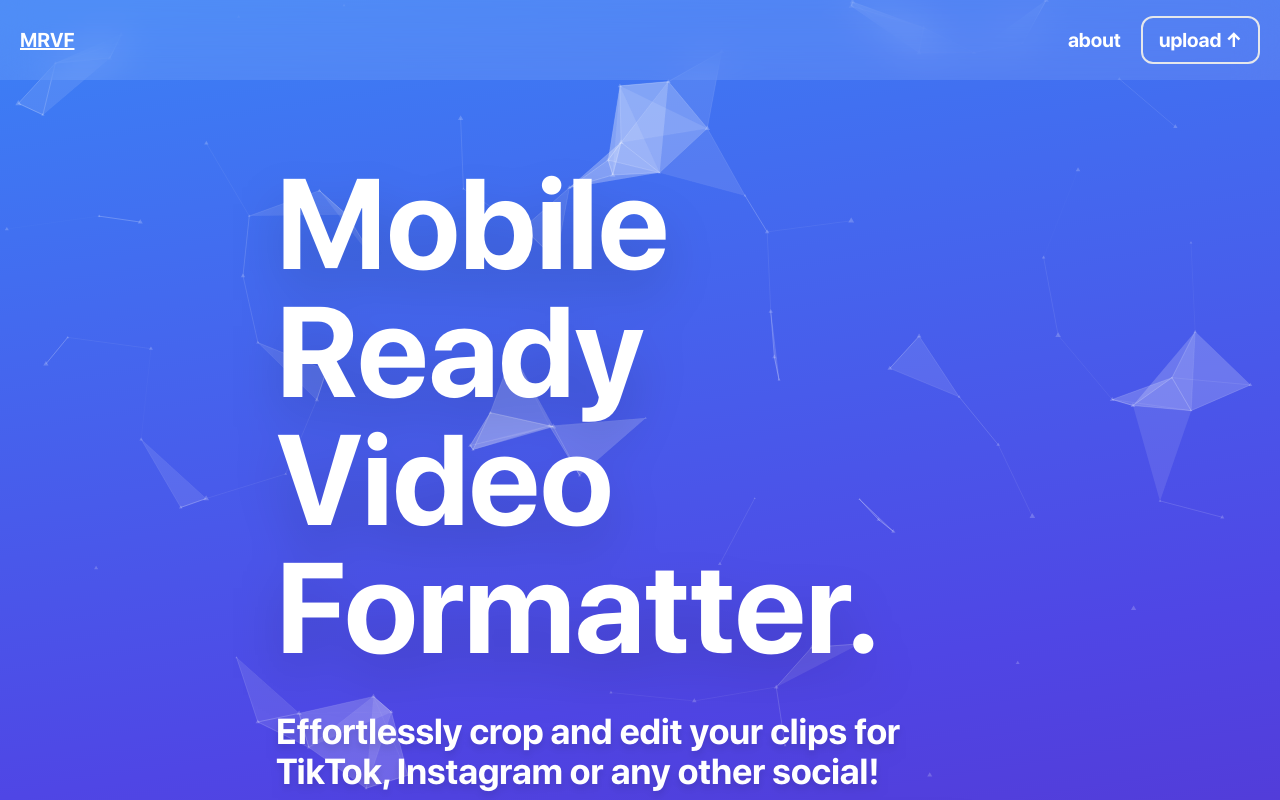
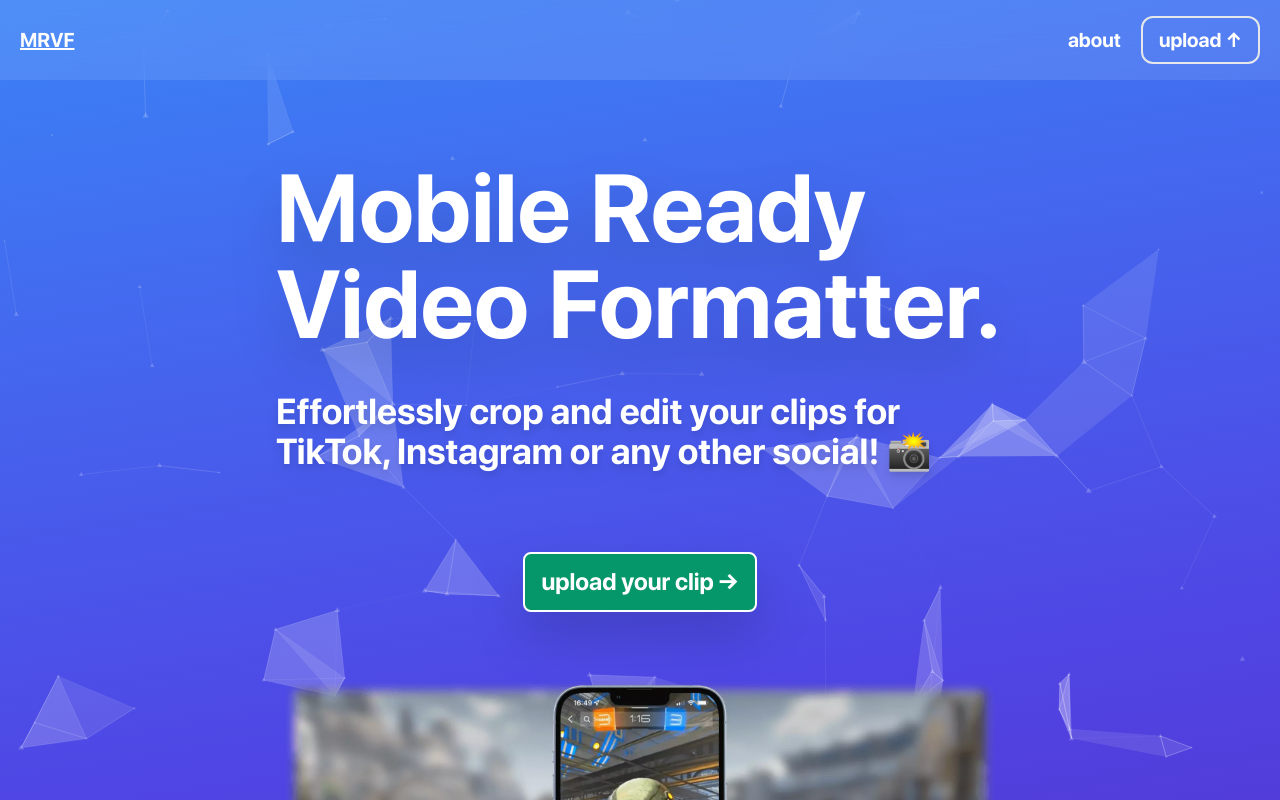
updated mrvf-preview image

diff --git a/src/routes/index.svelte b/src/routes/index.svelte
@@ -69,6 +69,6 @@
 		@apply text-2xl hover:underline;
 	}
 	button {
-		@apply flex h-10 items-center rounded-lg border-2 border-white border-opacity-10 bg-gray-900 bg-opacity-50 px-1 font-mono hover:border-opacity-20 hover:bg-opacity-70 active:border-opacity-50 active:bg-opacity-100;
+		@apply flex items-center font-mono hover:underline;
 	}
 </style>
